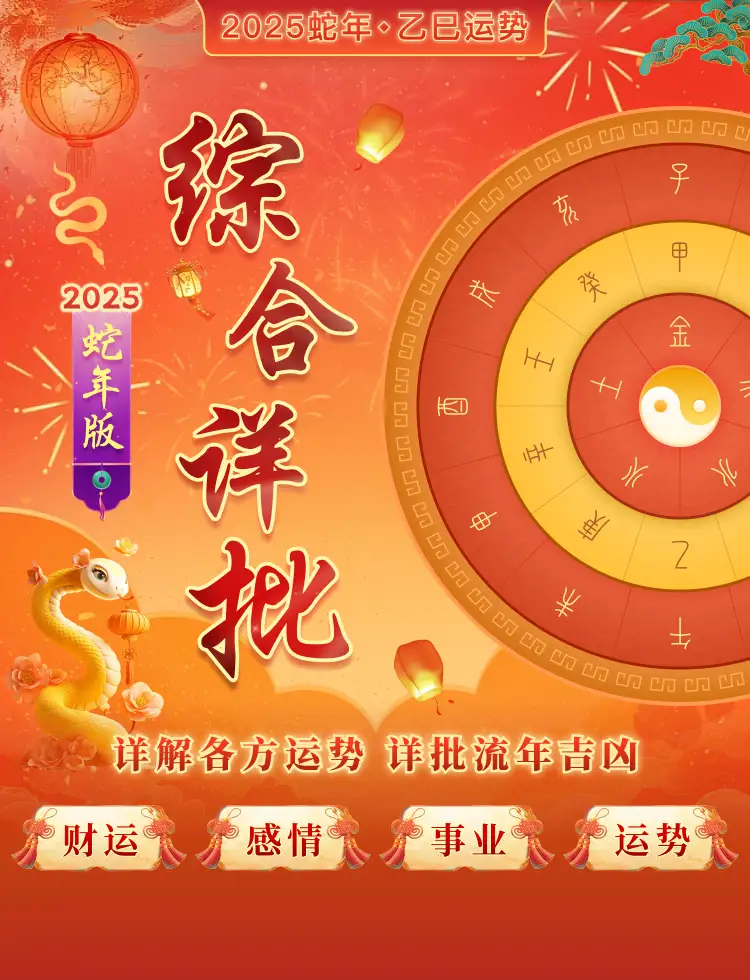
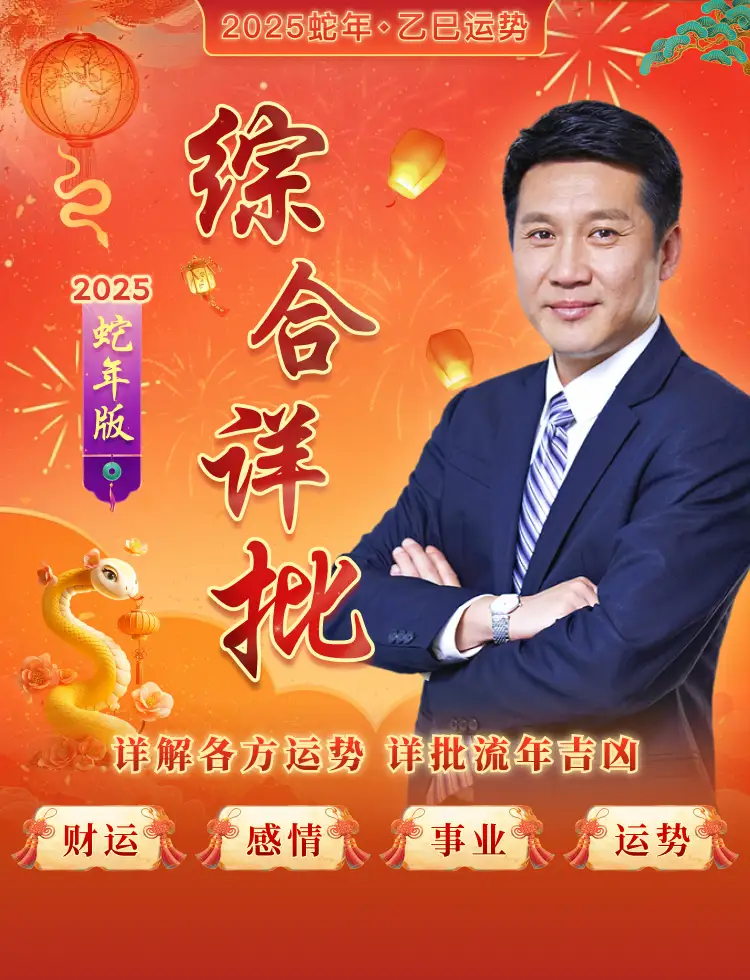
feat:年运首页资源替换

diff --git a/src/pages/history_order/outer_order.vue b/src/pages/history_order/outer_order.vue
@@ -332,6 +332,10 @@ const event_enums = {
     c_id: '-10003',
     c_name: 'click_history_2024report_repay',
   },
+  h5_annual2025: {
+    c_id: '-10003',
+    c_name: 'click_history_2024report_repay',
+  },
   h5_emotion2024: {
     c_id: '-10004',
     c_name: 'click_history_2024lovely_repay',
